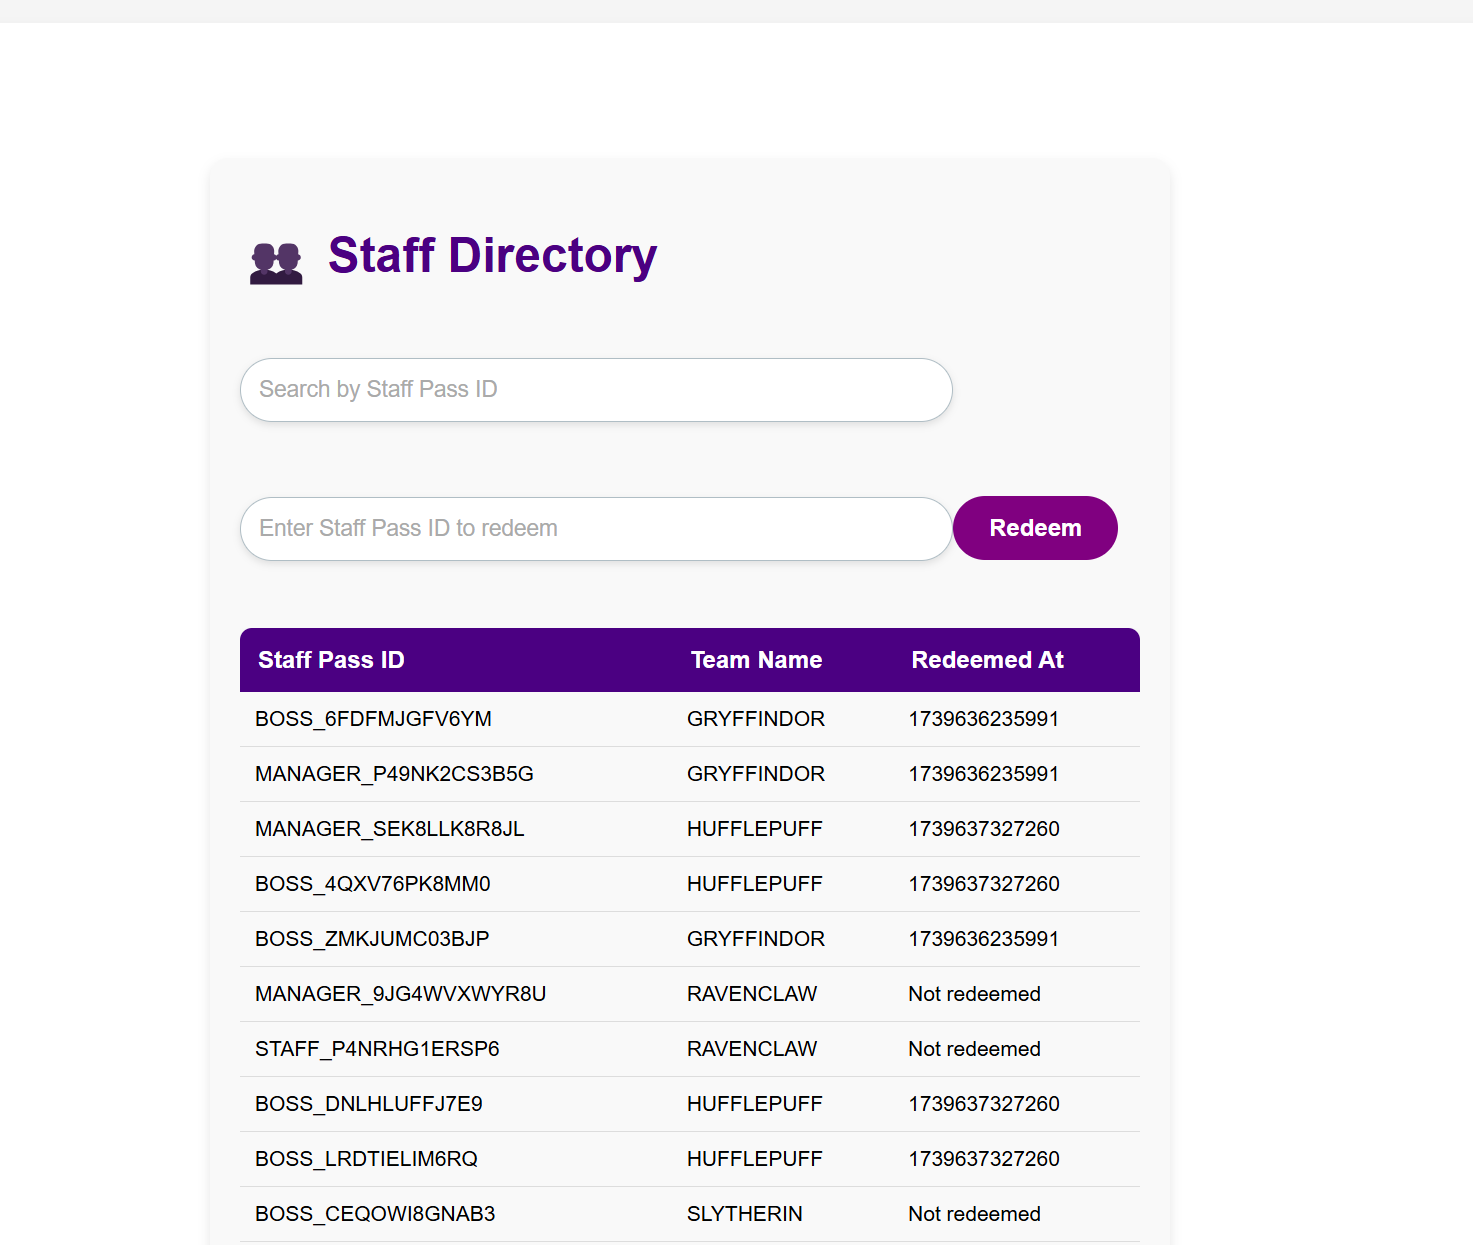
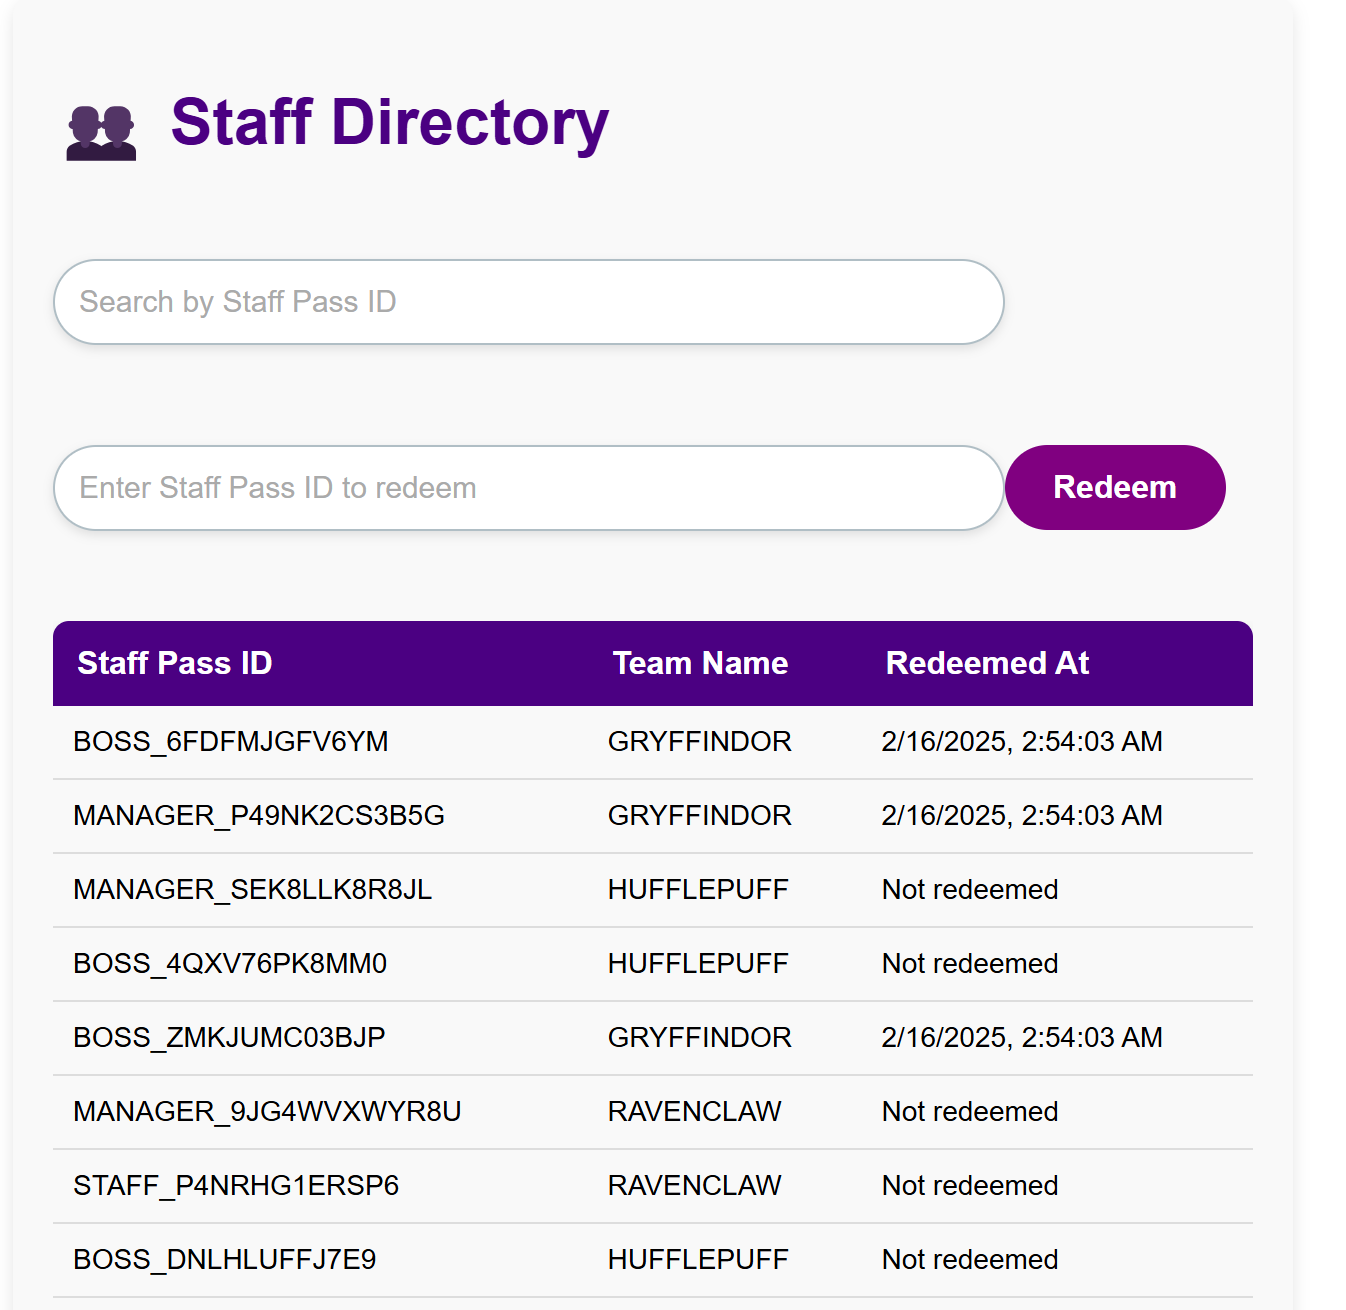
Fix Date Time Format

Changed region(s): [[0.0312, 0.3052, 0.9361, 1.0], [0.0312, 0.061, 0.4681, 0.1221], [0.0624, 0.1831, 0.4681, 0.2442]]

diff --git a/frontend/src/components/StaffList.tsx b/frontend/src/components/StaffList.tsx
@@ -12,25 +12,19 @@ export function StaffList({ staffList }: StaffListProps) {
 
   React.useEffect(() => {
     const fetchStatuses = async () => {
-      const statuses: [string, string][] = [];
-
       try {
         const allRedemptions = await fetchAllRedemptions();
-
-        for (const { teamName, redeemedAt } of allRedemptions) {
-          if (!statuses.find(([team]) => team === teamName)) {
-            statuses.push([teamName, redeemedAt ?? "Not redeemed"]);
-          }
-        }
-
-        const statusRecord = Object.fromEntries(statuses);
-        console.log("Status List:", statusRecord);
+        const statuses = allRedemptions.map(({ teamName, redeemedAt }) => ({
+          teamName: teamName.toUpperCase(),
+          redeemedAt: redeemedAt ? new Date(Number(redeemedAt)).toLocaleString() : "Not Redeemed",
+        }));
+        const statusRecord = Object.fromEntries(statuses.map(({ teamName, redeemedAt }) => [teamName, redeemedAt]));
+        console.log("Formatted Redemption Statuses:", statusRecord);
         setRedemptionStatuses(statusRecord);
       } catch (error) {
-        console.error("Failed to fetch all redemptions:", error);
+        console.error("Failed to fetch redemption statuses:", error);
       }
     };
-
     fetchStatuses();
   }, [staffList]);
 
